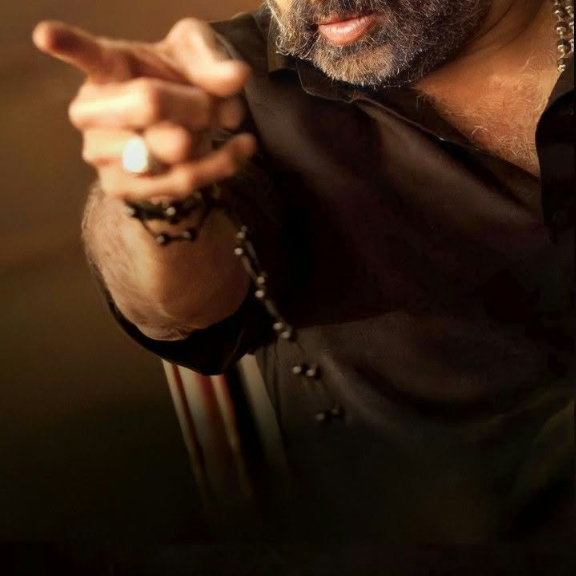
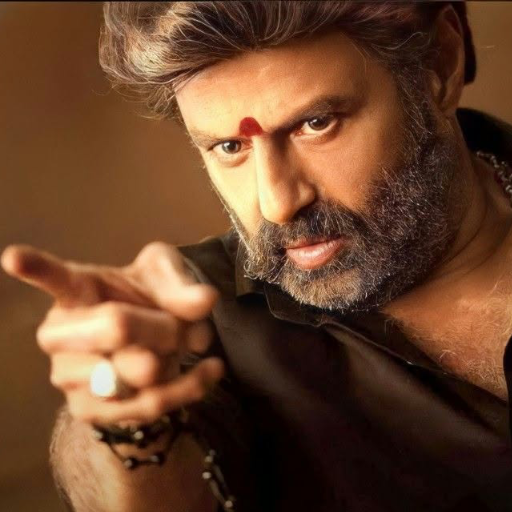
feat: rename game to Flying Balayya Babu, optimize face crop and sprite visibility

diff --git a/components/ShareModal.tsx b/components/ShareModal.tsx
@@ -47,16 +47,16 @@ export default function ShareModal({ isOpen, onClose, result, profile }: ShareMo
 
     // Brand Title
     ctx.textAlign = 'center';
-    ctx.font = '900 48px system-ui, sans-serif';
+    ctx.font = '900 44px system-ui, sans-serif';
     ctx.fillStyle = '#f59e0b';
     ctx.shadowColor = '#f59e0b';
     ctx.shadowBlur = 15;
-    ctx.fillText('FLAPPY CHAOS', 400, 100);
+    ctx.fillText('FLYING BALAYYA BABU', 400, 100);
 
     ctx.font = '700 18px system-ui, sans-serif';
     ctx.fillStyle = '#94a3b8';
     ctx.shadowBlur = 0;
-    ctx.fillText('“ONE TAP. INFINITE CHAOS.”', 400, 135);
+    ctx.fillText('“JAI BALAYYA! ONE TAP. INFINITE CHAOS.”', 400, 135);
 
     // Character Avatar
     const img = new Image();
@@ -131,7 +131,7 @@ export default function ShareModal({ isOpen, onClose, result, profile }: ShareMo
       // Footer
       ctx.font = '700 16px system-ui, sans-serif';
       ctx.fillStyle = '#64748b';
-      ctx.fillText('PLAY FREE AT: FLAPPY CHAOS ARCADE', 400, 930);
+      ctx.fillText('PLAY FREE AT: FLYING BALAYYA BABU ARCADE', 400, 930);
 
       try {
         setPreviewUrl(canvas.toDataURL('image/png'));
@@ -148,13 +148,13 @@ export default function ShareModal({ isOpen, onClose, result, profile }: ShareMo
     if (!canvas) return;
     const a = document.createElement('a');
     a.href = canvas.toDataURL('image/png');
-    a.download = `flappy-chaos-score-${result.score}.png`;
+    a.download = `flying-balayya-score-${result.score}.png`;
     a.click();
   };
 
   const handleCopyLink = () => {
     const url = window.location.origin;
-    navigator.clipboard.writeText(`I just scored ${result.score} in FLAPPY CHAOS! Can you beat my score? Play at: ${url}`);
+    navigator.clipboard.writeText(`I just scored ${result.score} in FLYING BALAYYA BABU! Can you beat my score? Play at: ${url}`);
     setCopied(true);
     setTimeout(() => setCopied(false), 2500);
   };
@@ -165,17 +165,17 @@ export default function ShareModal({ isOpen, onClose, result, profile }: ShareMo
       try {
         canvas.toBlob(async (blob) => {
           if (!blob) return;
-          const file = new File([blob], 'flappy-chaos-score.png', { type: 'image/png' });
+          const file = new File([blob], 'flying-balayya-score.png', { type: 'image/png' });
           if (navigator.canShare && navigator.canShare({ files: [file] })) {
             await navigator.share({
-              title: 'FLAPPY CHAOS Scorecard',
-              text: `I just scored ${result.score} on FLAPPY CHAOS! 🔥`,
+              title: 'FLYING BALAYYA BABU Scorecard',
+              text: `I just scored ${result.score} on FLYING BALAYYA BABU! Jai Balayya! 🔥`,
               files: [file],
             });
           } else {
             await navigator.share({
-              title: 'FLAPPY CHAOS Scorecard',
-              text: `I just scored ${result.score} on FLAPPY CHAOS! Check it out!`,
+              title: 'FLYING BALAYYA BABU Scorecard',
+              text: `I just scored ${result.score} on FLYING BALAYYA BABU! Check it out!`,
               url: window.location.origin,
             });
           }
@@ -189,7 +189,7 @@ export default function ShareModal({ isOpen, onClose, result, profile }: ShareMo
   };
 
   const shareText = encodeURIComponent(
-    `🔥 I just scored ${result.score} in FLAPPY CHAOS! Beat my record if you can: ${typeof window !== 'undefined' ? window.location.origin : ''}`
+    `🔥 I just scored ${result.score} in FLYING BALAYYA BABU! Jai Balayya! Beat my record: ${typeof window !== 'undefined' ? window.location.origin : ''}`
   );
 
   return (

diff --git a/lib/constants.ts b/lib/constants.ts
@@ -90,7 +90,7 @@ export const DEFAULT_ACHIEVEMENTS: Achievement[] = [
   {
     id: 'first_flight',
     name: 'First Flight',
-    description: 'Complete your very first run in Flappy Chaos.',
+    description: 'Complete your very first run in Flying Balayya Babu.',
     icon: '🐣',
     category: 'games',
     threshold: 1,
@@ -129,8 +129,8 @@ export const DEFAULT_ACHIEVEMENTS: Achievement[] = [
   },
   {
     id: 'unstoppable',
-    name: 'Unstoppable God',
-    description: 'Score 150 points. You are the ultimate Chaos Master.',
+    name: 'God of Masses',
+    description: 'Score 150 points. You are the ultimate Balayya Babu master!',
     icon: '⚡',
     category: 'score',
     threshold: 150,
@@ -145,8 +145,8 @@ export const DEFAULT_ACHIEVEMENTS: Achievement[] = [
   },
   {
     id: 'addicted',
-    name: 'Chaos Addict',
-    description: 'Play 50 games of Flappy Chaos.',
+    name: 'Balayya Addict',
+    description: 'Play 50 games of Flying Balayya Babu.',
     icon: '🎮',
     category: 'games',
     threshold: 50,
@@ -169,7 +169,7 @@ export const DEATH_MESSAGES: Array<{ minScore: number; maxScore: number; message
       'Bro, did you even try? 😂',
       'The ground says hello!',
       'Gravity: 1, You: 0.',
-      'Did your screen freeze or just your thumbs?',
+      'Flap with Lion Heart! Jai Balayya! 🦁',
     ],
   },
   {
@@ -177,9 +177,9 @@ export const DEATH_MESSAGES: Array<{ minScore: number; maxScore: number; message
     maxScore: 9,
     messages: [
       'Getting warmed up! Tap with rhythm!',
-      'Just a scratch. Jump right back in!',
-      'The pipes are testing your patience!',
-      'Almost hit double digits!',
+      'Just a warm up! Don’t stop the mass roar! 🔥',
+      'Dookudu tho vacham! Jump right back in!',
+      'Almost hit double digits! Jai Balayya!',
     ],
   },
   {
@@ -188,7 +188,7 @@ export const DEATH_MESSAGES: Array<{ minScore: number; maxScore: number; message
     messages: [
       'Getting started! You’re getting the feel!',
       'Nice reflex work! Double digits unlocked!',
-      'Solid flight! Keep the composure!',
+      'Charitra srushtinchadam maaku alavate! Keep flying! 🦁',
     ],
   },
   {
@@ -196,8 +196,8 @@ export const DEATH_MESSAGES: Array<{ minScore: number; maxScore: number; message
     maxScore: 49,
     messages: [
       'Not bad! Real arcade reflexes kicking in!',
-      'You are dodging like a champion!',
-      'Respectable run! You are threatening the leaderboard!',
+      'Lion flight mode active! Dodging like a champion!',
+      'Mass rampage! You are threatening the leaderboard!',
     ],
   },
   {
@@ -205,17 +205,17 @@ export const DEATH_MESSAGES: Array<{ minScore: number; maxScore: number; message
     maxScore: 99,
     messages: [
       'You’re becoming dangerous! 🔥',
-      'Top tier reflexes! The chaos cannot stop you!',
-      'Phenomenal agility! Keep flying!',
+      'GOD OF MASSES SPEED! The chaos cannot stop Balayya!',
+      'Phenomenal agility! JAI BALAYYA!',
     ],
   },
   {
     minScore: 100,
     maxScore: 999999,
     messages: [
-      'ABSOLUTE LEGEND! 👑',
-      'GOD MODE ACTIVATED! Leaderboard royalty!',
-      'Unstoppable Chaos Conqueror!',
+      'ABSOLUTE LEGEND! GOD OF MASSES! 👑',
+      'UNSTOPPABLE BALAYYA POWER ACTIVATED!',
+      'Unstoppable Chaos Conqueror! Jai Balayya!',
     ],
   },
 ];

diff --git a/lib/game-engine.ts b/lib/game-engine.ts
@@ -47,8 +47,8 @@ export class GameEngine {
   public birdY: number = 250;
   public birdVy: number = 0;
   public birdRotation: number = 0;
-  public birdWidth: number = 48;
-  public birdHeight: number = 48;
+  public birdWidth: number = 56;
+  public birdHeight: number = 56;
   public birdScale: number = 1.0;
   private birdImage: HTMLImageElement | null = null;
   private birdImageLoaded: boolean = false;
@@ -380,7 +380,7 @@ export class GameEngine {
     }
 
     // Ground and Ceiling collision
-    const birdRadius = (this.birdWidth / 2) * this.birdScale * 0.85;
+    const birdRadius = (this.birdWidth / 2) * this.birdScale * 0.72;
     if (this.birdY + birdRadius >= effectiveGround) {
       this.birdY = effectiveGround - birdRadius;
       this.die('hit_ground');
@@ -681,27 +681,48 @@ export class GameEngine {
     const half = size / 2;
 
     // Glowing Neon Aura
-    ctx.shadowColor = this.characterConfig.auraColor || '#f59e0b';
-    ctx.shadowBlur = this.characterConfig.glowIntensity || 16;
+    ctx.shadowColor = this.characterConfig.auraColor || '#fbbf24';
+    ctx.shadowBlur = this.characterConfig.glowIntensity || 20;
 
     if (this.birdImage && this.birdImageLoaded) {
+      const imgW = this.birdImage.naturalWidth || this.birdImage.width;
+      const imgH = this.birdImage.naturalHeight || this.birdImage.height;
+      const sSize = Math.min(imgW, imgH);
+      let sx = (imgW - sSize) / 2;
+      let sy = 0;
+
+      // Smart crop: portrait photos keep face centered from top
+      if (imgH > imgW * 1.1) {
+        sy = Math.max(0, Math.min(imgH - sSize, imgH * 0.05));
+      } else if (imgH < imgW) {
+        sx = (imgW - sSize) / 2;
+        sy = (imgH - sSize) / 2;
+      }
+
       if (this.characterConfig.shape === 'raw') {
         // Direct image rendering
-        ctx.drawImage(this.birdImage, -half, -half, size, size);
+        ctx.drawImage(this.birdImage, sx, sy, sSize, sSize, -half, -half, size, size);
       } else {
-        // Circular arcade badge with neon border
+        // High-contrast Circular Arcade Badge for Balayya
         ctx.beginPath();
         ctx.arc(0, 0, half, 0, Math.PI * 2);
         ctx.closePath();
         ctx.save();
         ctx.clip();
 
-        // Draw image centered & fitted
-        ctx.drawImage(this.birdImage, -half, -half, size, size);
+        // Draw image perfectly centered on face & aspect ratio preserved
+        ctx.drawImage(this.birdImage, sx, sy, sSize, sSize, -half, -half, size, size);
         ctx.restore();
 
-        // Neon border ring
-        ctx.strokeStyle = this.characterConfig.auraColor || '#f59e0b';
+        // Outer contrast outline
+        ctx.strokeStyle = '#000000';
+        ctx.lineWidth = 4;
+        ctx.beginPath();
+        ctx.arc(0, 0, half, 0, Math.PI * 2);
+        ctx.stroke();
+
+        // Glowing Neon Gold Ring
+        ctx.strokeStyle = this.characterConfig.auraColor || '#fbbf24';
         ctx.lineWidth = 3;
         ctx.beginPath();
         ctx.arc(0, 0, half, 0, Math.PI * 2);

diff --git a/app/page.tsx b/app/page.tsx
@@ -52,22 +52,22 @@ export default function HomePage() {
           <div className="inline-flex items-center gap-2 rounded-full border border-amber-500/40 bg-zinc-900/80 px-4 py-2 shadow-lg shadow-amber-500/10 backdrop-blur-xl">
             <Flame className="h-4 w-4 text-amber-400 animate-pulse" />
             <span className="text-xs font-black tracking-widest text-amber-400 uppercase">
-              NEXT-GEN ARCADE SENSATION
+              JAI BALAYYA! ARCADE EDITION
             </span>
           </div>
 
           {/* Main Title */}
-          <h1 className="mt-6 font-black tracking-tighter text-transparent bg-clip-text bg-gradient-to-r from-amber-400 via-rose-500 to-fuchsia-500 text-6xl sm:text-7xl lg:text-8xl drop-shadow-[0_0_35px_rgba(244,63,94,0.35)]">
-            FLAPPY CHAOS
+          <h1 className="mt-6 font-black tracking-tighter text-transparent bg-clip-text bg-gradient-to-r from-yellow-300 via-amber-400 to-rose-500 text-5xl sm:text-7xl lg:text-8xl drop-shadow-[0_0_35px_rgba(245,158,11,0.4)]">
+            FLYING BALAYYA BABU
           </h1>
 
           {/* Tagline */}
-          <p className="mt-3 text-lg sm:text-2xl font-black tracking-widest text-zinc-300">
+          <p className="mt-3 text-lg sm:text-2xl font-black tracking-widest text-zinc-200">
             “ONE TAP. INFINITE CHAOS.”
           </p>
 
           <p className="mt-4 max-w-2xl text-sm sm:text-base text-zinc-400 leading-relaxed">
-            The unpredictable arcade flyer! Dodge deadly obstacles, survive 10 insane chaos mutations, customize your personal flying hero, jam to Telugu anthems, and conquer the global leaderboards.
+            The ultimate mass arcade sensation! Fly as Nandamuri Balakrishna (God of Masses), dodge unpredictable neon obstacles, survive 10 wild chaos mutations, groove to Telugu beats, and dominate the world leaderboard!
           </p>
 
           {/* Character Spotlight Preview */}

diff --git a/components/GameCanvas.tsx b/components/GameCanvas.tsx
@@ -196,13 +196,18 @@ export default function GameCanvas() {
 
       {/* START PROMPT */}
       {!hasStarted && !gameResult && (
-        <div className="pointer-events-none absolute inset-0 flex flex-col items-center justify-center bg-black/30 backdrop-blur-[2px]">
-          <div className="flex flex-col items-center rounded-3xl border border-amber-500/40 bg-zinc-950/80 p-6 shadow-2xl text-center">
-            <span className="text-4xl animate-bounce">👆</span>
-            <h2 className="mt-2 text-xl font-black tracking-wider text-amber-400">
+        <div className="pointer-events-none absolute inset-0 flex flex-col items-center justify-center bg-black/40 backdrop-blur-[2px]">
+          <div className="flex flex-col items-center rounded-3xl border border-amber-400/60 bg-zinc-950/90 p-7 shadow-2xl text-center">
+            <span className="text-4xl animate-bounce">🦁</span>
+            <h2 className="mt-2 text-2xl font-black tracking-wider text-amber-400">
               TAP OR PRESS SPACE
             </h2>
-            <p className="mt-1 text-xs text-zinc-400">To fly, dodge pipes, and survive the chaos!</p>
+            <p className="mt-1 text-sm font-bold text-yellow-300">
+              FLY BALAYYA BABU!
+            </p>
+            <p className="mt-1 text-xs text-zinc-400">
+              Dodge pipes, survive chaos mutations, and claim #1!
+            </p>
           </div>
         </div>
       )}

diff --git a/app/layout.tsx b/app/layout.tsx
@@ -14,11 +14,11 @@ const geistMono = Geist_Mono({
 });
 
 export const metadata: Metadata = {
-  title: 'FLAPPY CHAOS – One Tap. Infinite Chaos.',
+  title: 'FLYING BALAYYA BABU – Jai Balayya! One Tap. Infinite Chaos.',
   description:
-    'The ultimate customized, crazy, addictive, and competitive arcade gaming web application. Custom characters, unpredictable random events, audio studio, and global leaderboards.',
-  keywords: ['flappy bird', 'arcade', 'web game', 'flappy chaos', 'balayya flappy'],
-  authors: [{ name: 'Flappy Chaos Team' }],
+    'The ultimate arcade web game starring Nandamuri Balakrishna (God of Masses)! Dodge deadly pipes, survive 10 crazy chaos mutations, jam to Telugu anthems, and dominate the global leaderboards.',
+  keywords: ['flying balayya babu', 'balayya flappy', 'balakrishna game', 'arcade game', 'telugu web game', 'jai balayya'],
+  authors: [{ name: 'Flying Balayya Babu Team' }],
 };
 
 export const viewport: Viewport = {

diff --git a/components/ScoreCard.tsx b/components/ScoreCard.tsx
@@ -52,9 +52,9 @@ export default function ScoreCard({ result, profile, onPlayAgain }: ScoreCardPro
       <div className="relative w-full max-w-md rounded-3xl border border-amber-500/40 bg-zinc-950/95 p-6 shadow-2xl shadow-rose-950/60 backdrop-blur-2xl">
         {/* Glow Header */}
         <div className="text-center">
-          <div className="inline-flex items-center gap-2 rounded-full border border-rose-500/30 bg-rose-500/10 px-3 py-1 text-xs font-black tracking-widest text-rose-400">
-            <Flame className="h-4 w-4" />
-            GAME OVER
+          <div className="inline-flex items-center gap-2 rounded-full border border-amber-500/40 bg-amber-500/10 px-3.5 py-1 text-xs font-black tracking-widest text-amber-400">
+            <Flame className="h-4 w-4 text-rose-500" />
+            JAI BALAYYA! FLIGHT CONCLUDED
           </div>
 
           <h2 className="mt-3 text-2xl font-black uppercase tracking-wider text-white">

diff --git a/components/CharacterUploader.tsx b/components/CharacterUploader.tsx
@@ -80,7 +80,7 @@ export default function CharacterUploader() {
           className="inline-flex items-center gap-1.5 self-start rounded-xl border border-white/10 bg-zinc-900 px-3.5 py-2 text-xs font-semibold text-zinc-400 transition hover:bg-zinc-800 hover:text-white"
         >
           <RotateCcw className="h-3.5 w-3.5" />
-          Reset to Hero
+          Reset to Balayya Babu
         </button>
       </div>
 
@@ -118,7 +118,7 @@ export default function CharacterUploader() {
           <div className="mt-4 flex items-center gap-2">
             <span className="h-2 w-2 rounded-full bg-emerald-400 animate-pulse" />
             <span className="text-xs font-semibold text-zinc-300">
-              {config.isCustom ? 'Custom Upload Active' : 'Default Balayya Avatar'}
+              {config.isCustom ? 'Custom Upload Active' : 'Default Balayya Babu Avatar'}
             </span>
           </div>
 

diff --git a/components/Navbar.tsx b/components/Navbar.tsx
@@ -54,11 +54,11 @@ export default function Navbar() {
             </div>
           </div>
           <div>
-            <span className="bg-gradient-to-r from-amber-400 via-rose-500 to-fuchsia-500 bg-clip-text text-xl font-black tracking-wider text-transparent">
-              FLAPPY CHAOS
+            <span className="bg-gradient-to-r from-amber-400 via-rose-500 to-yellow-300 bg-clip-text text-xl font-black tracking-wider text-transparent">
+              FLYING BALAYYA BABU
             </span>
-            <span className="hidden text-[10px] font-bold tracking-widest text-zinc-400 sm:block">
-              ONE TAP. INFINITE CHAOS.
+            <span className="hidden text-[10px] font-black tracking-widest text-amber-400/90 sm:block">
+              JAI BALAYYA! ONE TAP. INFINITE CHAOS.
             </span>
           </div>
         </NextLink>

diff --git a/lib/storage.ts b/lib/storage.ts
@@ -102,7 +102,7 @@ export function getStoredProfile(): PlayerProfile {
   }
   const defaultGuest: PlayerProfile = {
     id: 'guest_' + Math.random().toString(36).substring(2, 8),
-    username: 'Chaos_Pilot_' + Math.floor(100 + Math.random() * 900),
+    username: 'Balayya_Fan_' + Math.floor(100 + Math.random() * 900),
     avatarUrl: '/assets/default-character.png',
     bestScore: 0,
     totalGames: 0,

diff --git a/lib/leaderboard.ts b/lib/leaderboard.ts
@@ -6,7 +6,7 @@ const INITIAL_MOCK_LEADERBOARD: LeaderboardEntry[] = [
   {
     rank: 1,
     playerId: 'hero_balayya',
-    username: 'Balayya_Supreme 👑',
+    username: 'Balayya Babu (God of Masses) 👑',
     avatarUrl: '/assets/default-character.png',
     bestScore: 248,
     totalGames: 420,

diff --git a/README.md b/README.md
@@ -1,8 +1,8 @@
-# 🌪 FLAPPY CHAOS – ULTIMATE CUSTOM ARCADE GAMING WEB APP
+# 🦁 FLYING BALAYYA BABU – ULTIMATE ARCADE GAMING WEB APP
 
-> **“ONE TAP. INFINITE CHAOS.”**
+> **“JAI BALAYYA! ONE TAP. INFINITE CHAOS.”**
 
-Flappy Chaos is a next-generation, high-performance arcade web gaming platform built with **Next.js (App Router)**, **TypeScript**, **Tailwind CSS**, and **HTML5 Canvas** (60 FPS physics engine), backed by **Supabase PostgreSQL & Authentication**, and preloaded with the custom hero avatar (Nandamuri Balakrishna) and background soundtrack.
+**FLYING BALAYYA BABU** is a next-generation, high-performance arcade web gaming platform built with **Next.js (App Router)**, **TypeScript**, **Tailwind CSS**, and **HTML5 Canvas** (60 FPS physics engine), backed by **Supabase PostgreSQL & Authentication**, and preloaded with the legendary Nandamuri Balakrishna (God of Masses) flyer avatar and Telugu soundtrack!
 
 ---
 
